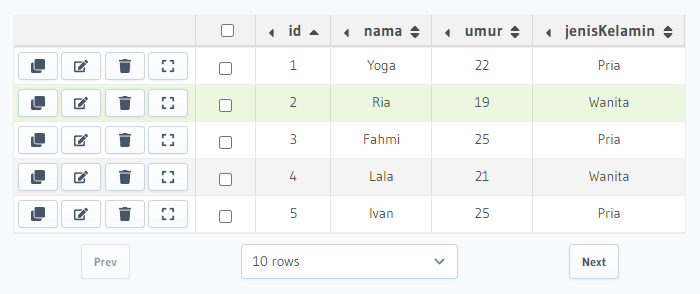
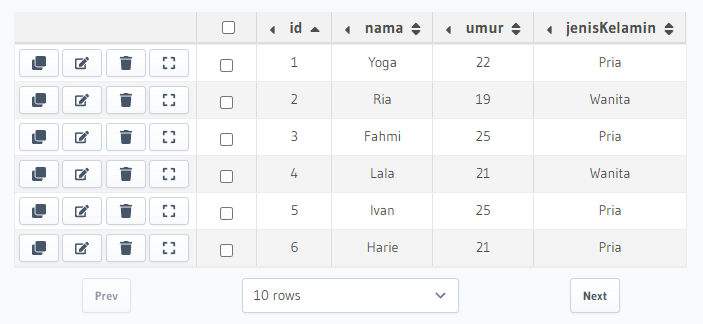
Task(22_GraphQL-Query-and-Apollo-Client): query data di tampilan awal"

diff --git a/22_GraphQL-Query-and-Apollo-client/praktikum/src/component/ListPassenger.js b/22_GraphQL-Query-and-Apollo-client/praktikum/src/component/ListPassenger.js
@@ -1,6 +1,17 @@
-import { gql, useLazyQuery } from "@apollo/client";
+import { gql, useLazyQuery, useQuery } from "@apollo/client";
 import { useState } from "react";
 import ListItem from "./ListItem";
+
+const GetUser = gql`
+  query MyQuery {
+    pengunjung {
+      id
+      nama
+      umur
+      jenisKelamin
+    }
+  }
+`;
 
 const GetByUserId = gql`
   query MyQuery($id: String) {
@@ -14,42 +25,49 @@ const GetByUserId = gql`
 `;
 
 const ListPassenger = (props) => {
-  const [getData, { loading, error, data }] = useLazyQuery(GetByUserId);
-  const [dataId, setDataId] = useState(0);
-
-  if (loading) return <p>Loading ...</p>;
-  if (error) return `Error! ${error}`;
+  const { loading: userLoading, error: userError, data: userData } = useQuery(GetUser);
+  const [getData, { loading: userByIdLoading, error: userByIdError, data: userByIdData }] = useLazyQuery(GetByUserId);
+  const [userId, setUserId] = useState(0);
 
   const handleGetData = () => {
     getData({
       variables: {
-        id: dataId,
+        id: userId,
       },
     });
   };
 
   const handleChangeDataId = (e) => {
     if (e.target) {
-      setDataId(e.target.value);
+      setUserId(e.target.value);
     }
   };
+
+  if (userLoading || userByIdLoading) return <p>Loading ...</p>;
+  if (userError || userByIdError) return <p>Something went wrong ...</p>;
 
   return (
     <div>
       <div style={{ margin: "20px" }}>
-        <input value={dataId} onChange={handleChangeDataId} style={{ marginRight: "5px" }} />
+        <input value={userId} onChange={handleChangeDataId} style={{ marginRight: "5px" }} />
         <button onClick={handleGetData}>Get Data</button>
       </div>
       <table cellPadding="5px" cellSpacing="0" style={{ margin: "auto" }}>
         <thead bgcolor="red">
-          <td>Nama</td>
-          <td>Umur</td>
-          <td>Jenis Kelamin</td>
-          <td bgcolor="white" className="removeBorder"></td>
+          <tr>
+            <td>Nama</td>
+            <td>Umur</td>
+            <td>Jenis Kelamin</td>
+            <td bgcolor="white" className="removeBorder"></td>
+          </tr>
         </thead>
-        {data?.pengunjung.map((item) => (
-          <ListItem key={item.id} data={item} hapusPengunjung={props.hapusPengunjung} />
-        ))}
+        {userByIdData
+          ? userByIdData?.pengunjung.map((item) => (
+              <ListItem key={item.id} data={item} hapusPengunjung={props.hapusPengunjung} />
+            ))
+          : userData?.pengunjung.map((item) => (
+              <ListItem key={item.id} data={item} hapusPengunjung={props.hapusPengunjung} />
+            ))}
       </table>
     </div>
   );
